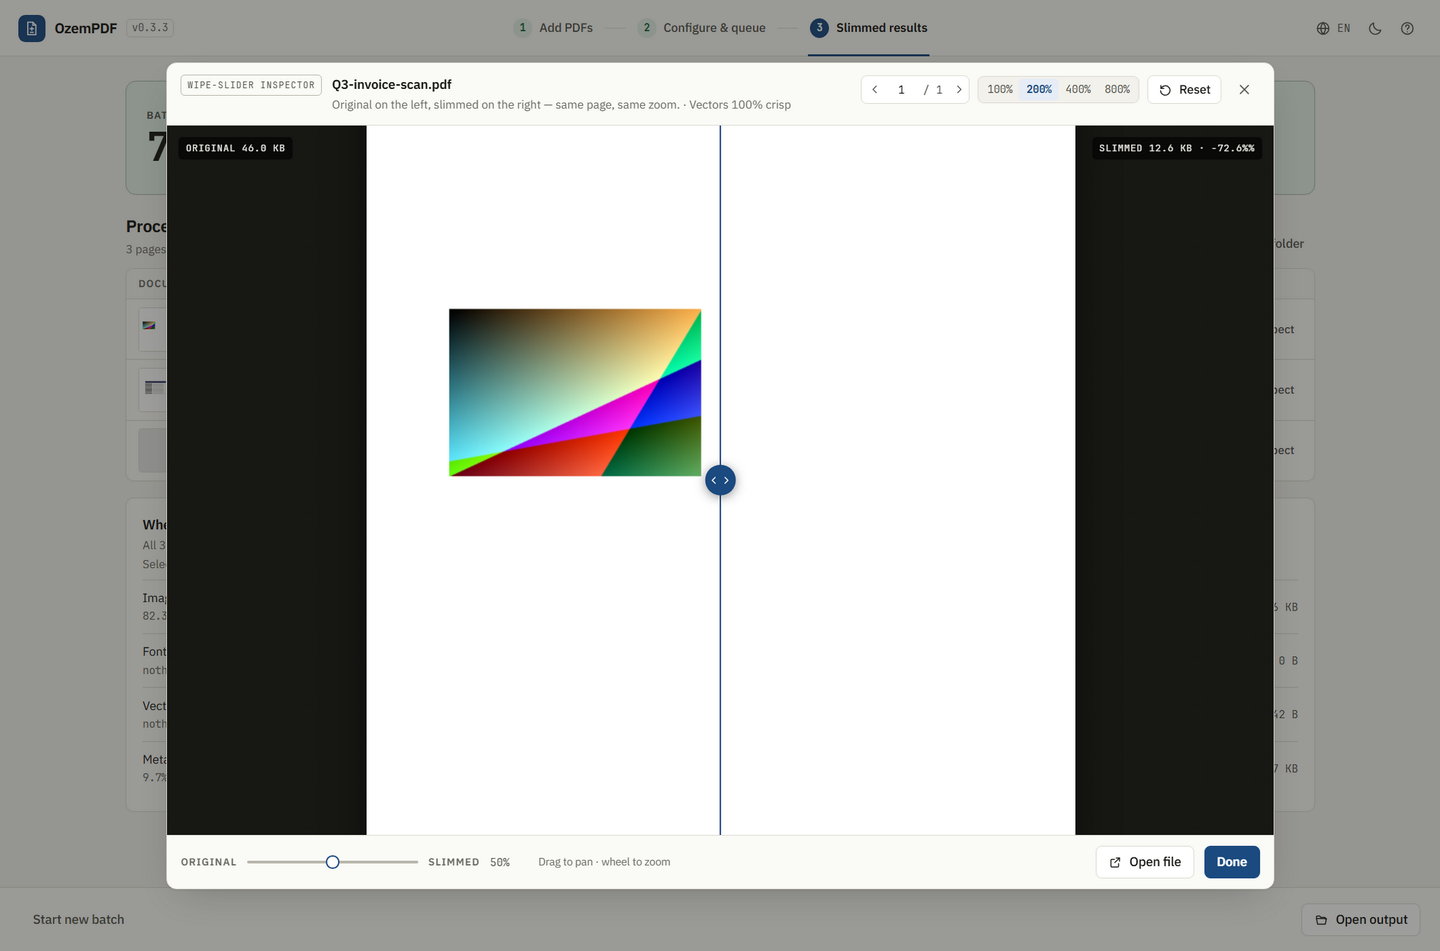
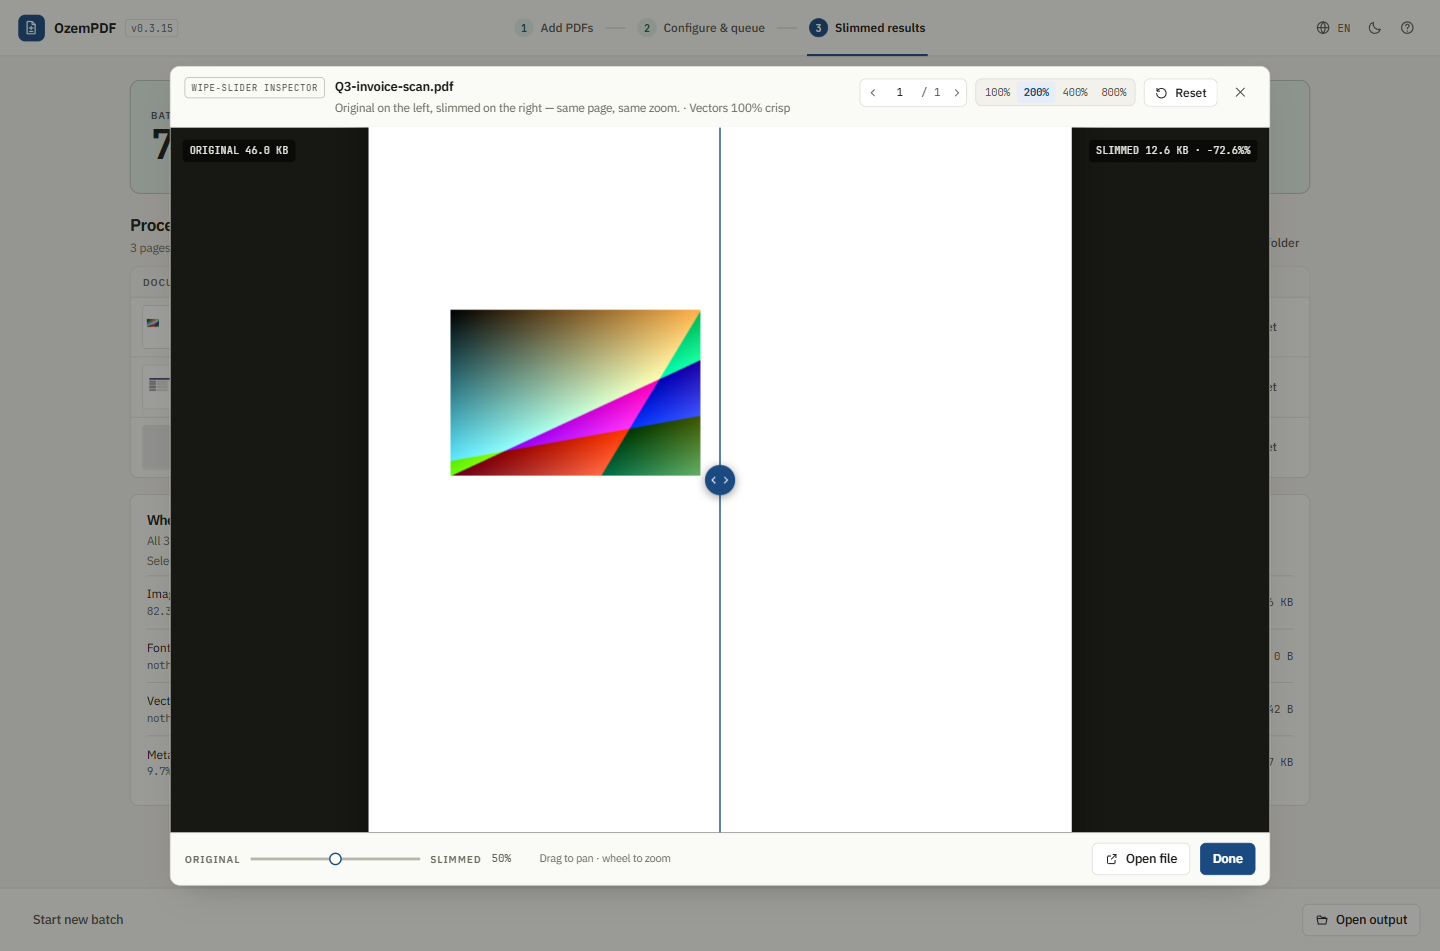
docs: refresh the specification and README screenshots for 0.3.15
- name 0.3.15 as the described version with 0.3.3 as the descriptive baseline; update the CLI, ZIP and bootstrap examples

- refresh Appendix A/C line and string counts and the 12.3 test inventory (92 tests) and correct the pipeline docstring to seven stages

- regenerate the four README screenshots from the shipped 0.3.15 UI with the original fixtures, so the version chip and all figures match the app

diff --git a/python/src/ozempdf/engine/pipeline.py b/python/src/ozempdf/engine/pipeline.py
@@ -1,4 +1,4 @@
-"""Six-stage compression orchestration for a single PDF.
+"""Seven-stage compression orchestration for a single PDF.
 
 The pipeline is the only place that writes output files. Every stage mutates an
 open document in place; the save is atomic (temp file in the destination

diff --git a/docs/TECHNICAL_SPECIFICATION.md b/docs/TECHNICAL_SPECIFICATION.md
@@ -5,9 +5,9 @@
 | Document ID | OZEM-TS-001 |
 | Product | OzemPDF |
 | Specification version | 2.0 |
-| Application version described | **0.3.3** (`python/src/ozempdf/_version.py`) |
+| Application version described | **0.3.15** (`python/src/ozempdf/_version.py`); the descriptive baseline is 0.3.3 and later changes are recorded in `CHANGELOG.md` |
 | Document status | Current-state specification (descriptive + normative for invariants) |
-| Last updated | 2026-11-24 |
+| Last updated | 2026-11-25 |
 | Audience | Maintainers, integrators, reviewers, AI coding agents |
 | Related documents | [`README.md`](../README.md), [`CHANGELOG.md`](CHANGELOG.md), [`DESIGN.md`](DESIGN.md), [`PRODUCT.md`](PRODUCT.md), [`DISCREPANCIES.md`](DISCREPANCIES.md), [`DEPENDENCIES.md`](DEPENDENCIES.md), [`pyproject.toml`](../pyproject.toml) |
 
@@ -18,7 +18,8 @@
 > chapters (§3–§6, §8–§11, §15.1–§15.2) keep their original intent with the behaviour updated to the
 > current tree.
 
-> **Authority.** This document describes the implementation as it exists in source at version 0.3.3.
+> **Authority.** This document describes the implementation as it exists in source at version 0.3.15;
+> the descriptive baseline is 0.3.3 and changes since are recorded in [`CHANGELOG.md`](CHANGELOG.md).
 > Where prose in the README or a locale catalog disagrees with observable behaviour, the behaviour of
 > `python/src/ozempdf/**` is authoritative and the disagreement is recorded in
 > [§16](#16-defect-ledger-and-known-limitations). Normative project rules live in
@@ -786,7 +787,7 @@ memory.
 | `--lang` | str | OS locale | sets the locale before parsing |
 | `--verbose` | flag | off | DEBUG logging with per-file timings |
 | `-h`, `--help` | flag | — | localized help |
-| `-v`, `--version` | flag | — | prints `OzemPDF v0.3.3` |
+| `-v`, `--version` | flag | — | prints `OzemPDF v0.3.15` |
 
 **FR-CLI-1** `--max-dpi` and `--jpeg-quality` MUST clear `strict_lossless` (they are meaningless in
 Strict Lossless).
@@ -822,7 +823,7 @@ An unlocked document adds a line naming the protection that was removed. Summary
 
 ```text
 ------------------------------------------------------------------------
-OzemPDF v0.3.3 Batch Summary
+OzemPDF v0.3.15 Batch Summary
 Processed 3/3 files in 12.34s | 40.00 MB -> 6.00 MB | Saved 34.00 MB (-85.0%)
 Savings Breakdown: Images -30.00 MB | Fonts -1.20 MB | Vectors/Streams -2.10 MB | Metadata/Bloat -0.70 MB
 ```
@@ -1168,7 +1169,7 @@ fallback rather than a demo.
 ### 8.1 Catalog format
 
 UTF-8 JSON, one file per locale: `python/src/ozempdf/locales/<code>.json`. 19 top-level groups, 282 leaf
-strings at 0.3.3 (Appendix C).
+strings at 0.3.15 (Appendix C).
 
 - Reserved `_meta` object: `code`, `name`, `native_name`.
 - Arbitrary nesting; lookups use dot paths (`step3.cat_images`).
@@ -1414,22 +1415,23 @@ pythonpath = ["src"]
 addopts = "-ra"
 ```
 
-Run `python -m pytest -q` (~10 s, 76 tests) and `ruff check python/src python/tests`. Interface tests drive the real
+Run `python -m pytest -q` (~20 s, 92 tests) and `ruff check python/src python/tests`. Interface tests drive the real
 server through `http.client`; no browser is required, and no Qt platform plugin is involved.
 
 ### 12.3 Inventory
 
 | Module | Tests | Verifies |
 | --- | --- | --- |
-| `python/tests/test_lossless.py` | 9 | Bit-identical pixels *and* identical decoded content bytes in Strict Lossless; guardrail keeps a tiny file (`kept_original_guardrail`, `already_optimal`); duplicate images, opaque `/SMask`, `/PieceInfo` and `/Thumb` removed; Max Slim strips metadata but Lossless keeps it; an image stream is only replaced when strictly smaller; vector-only documents are not rasterised; every preset still renders a page |
-| `python/tests/test_visually_lossless.py` | 12 | 600 effective DPI derived from the CTM; Balanced downsamples it and Max Slim is not larger; a screenshot becomes `/Indexed` rather than JPEG; a low-DPI image is left alone; a 1-bit mask keeps every decoded pixel; a `/Decode`-inverted mask is not re-encoded; the Word text-as-mask construct still renders; Predictor-15 round-trips all five filters for bpp 1 and 3; Paeth matches reference values |
-| `python/tests/test_security_and_fonts.py` | 15 | Owner-encrypted signed document is decrypted and flattened; permission restrictions removed without a password; a supplied password does not break permission-only files; a mixed batch shares one password; an open password without a credential is reported, not guessed; `"1234"` fails; inputs open read-only; a permission error is actionable; protection is classified; unsupported encryption is reported; flatten-disabled keeps the signature; a subset font is still a valid sfnt; re-signing produces a real `/ByteRange` signature; a wrong certificate password fails cleanly and leaves no output |
-| `python/tests/test_batch.py` | 15 | Sorted recursive discovery and previous-output exclusion; the three output modes; collision suffixing; empty suffix fallback; parallel ordering and progress; cancel stops dispatch but keeps finished work; thumbnails and page renders; a failed file leaves no temp and keeps the original; CLI single file with a JSON report; pure-JSON stdout; exit codes 1 and 2; localized help; flag mapping |
+| `python/tests/test_lossless.py` | 7 | Bit-identical pixels *and* identical decoded content bytes in Strict Lossless; guardrail keeps a tiny file (`kept_original_guardrail`, `already_optimal`); duplicate images, opaque `/SMask`, `/PieceInfo` and `/Thumb` removed; Max Slim strips metadata but Lossless keeps it; an image stream is only replaced when strictly smaller; vector-only documents are not rasterised; every preset still renders a page |
+| `python/tests/test_visually_lossless.py` | 11 | 600 effective DPI derived from the CTM; Balanced downsamples it and Max Slim is not larger; a screenshot becomes `/Indexed` rather than JPEG; a low-DPI image is left alone; a 1-bit mask keeps every decoded pixel; a `/Decode`-inverted mask is not re-encoded; the Word text-as-mask construct still renders; Predictor-15 round-trips all five filters for bpp 1 and 3; Paeth matches reference values |
+| `python/tests/test_security_and_fonts.py` | 17 | Owner-encrypted signed document is decrypted and flattened; permission restrictions removed without a password; a supplied password does not break permission-only files; a mixed batch shares one password; an open password without a credential is reported, not guessed; `"1234"` fails; inputs open read-only; a permission error is actionable; protection is classified; unsupported encryption is reported; flatten-disabled keeps the signature; a subset font is still a valid sfnt; re-signing produces a real `/ByteRange` signature; a wrong certificate password fails cleanly and leaves no output |
+| `python/tests/test_batch.py` | 20 | Sorted recursive discovery and previous-output exclusion; the three output modes; collision suffixing; empty suffix fallback; parallel ordering and progress; cancel stops dispatch but keeps finished work; thumbnails and page renders; a failed file leaves no temp and keeps the original; CLI single file with a JSON report; pure-JSON stdout; exit codes 1 and 2; localized help; flag mapping |
 | `python/tests/test_settings.py` | 6 | Whitelist-only persistence and secrets never persisted; portable data-dir override; corrupt and unwritable settings fall back silently; language round-trips through `AppState`; `from_preset` accepts an enum member |
 | `python/tests/test_i18n.py` | 7 | Translation and fallback; formatting errors return the template; unknown language keeps the current one; discovery and listeners; every static key exists; zero orphan keys; no empty values |
-| `python/tests/test_web.py` | 15 | Index serves the UI and sets the session cookie; the version chip matches `_version.py`; the API refuses a token-less request; static traversal is blocked; add → run → images; `fs/list` filters and hides; certificate picker; upload staging; a preset change keeps the destination; opening a missing output is reported, not raised; incremental queue after a run; row removal; preload paths queue on first load; protection kind is reported; language switch |
+| `python/tests/test_packaging.py` | 2 | `freeze_support()` precedes `run_cli()` in the frozen entry point |
+| `python/tests/test_web.py` | 19 | Index serves the UI and sets the session cookie; the version chip matches `_version.py`; the API refuses a token-less request; static traversal is blocked; add → run → images; `fs/list` filters and hides; certificate picker; upload staging; a preset change keeps the destination; opening a missing output is reported, not raised; incremental queue after a run; row removal; preload paths queue on first load; protection kind is reported; language switch |
 
-Fixtures live in `python/tests/pdf_fixtures.py` (418 lines): flat and gradient rasters, an opaque `/SMask`,
+Fixtures live in `python/tests/pdf_fixtures.py` (435 lines): flat and gradient rasters, an opaque `/SMask`,
 duplicate images, `/PieceInfo`/`/Thumb`/XMP bloat, a synthetic TrueType font built with
 `FontBuilder`, an owner-encrypted PDF with a visible signature widget, an open-password PDF, an
 unsupported-encryption PDF, and a nested folder tree.
@@ -1491,7 +1493,7 @@ Two artefacts, in order:
    create temporary directory" on locked-down hosts, and a one-dir build also starts faster.
 2. **Desktop app** — `cd electron && npm run dist` runs `electron-builder` with the `zip` target only,
    copying `artifacts/dist/engine` as `resources/engine` plus the two launchers and the icon. Output:
-   `release/OzemPDF-0.3.3-win.zip` (~172 MB).
+   `release/OzemPDF-0.3.15-win.zip` (~172 MB).
 
 `electron-builder` is configured for `win`, `mac` and `linux` zip targets. NSIS and the
 self-extracting portable exe were **removed**: the installer executes the generated installer to
@@ -1787,24 +1789,24 @@ Line counts are indicative (§1.3). `web/fonts/` holds the OFL texts alongside t
 
 | Path | Lines | Responsibility |
 | --- | --- | --- |
-| `docs/TECHNICAL_SPECIFICATION.md` | 1982 | this specification |
+| `docs/TECHNICAL_SPECIFICATION.md` | 2017 | this specification |
 | `docs/USER_STORIES.md` | 957 | personas, epics, stories, traceability |
-| `docs/DISCREPANCIES.md` | 101 | the D-01…D-21 resolution ledger with evidence |
+| `docs/DISCREPANCIES.md` | 119 | the D-01…D-21 resolution ledger with evidence |
 | `docs/screenshots/step1.png` … `step3.png`, `inspector.png` | — | README figures, captured from the shipped UI |
-| `python/src/ozempdf/_version.py` | 3 | version source of truth (`0.3.3`) |
-| `python/src/ozempdf/__init__.py` | 3 | package facade |
-| `python/src/ozempdf/__main__.py` | 11 | entry point, `freeze_support` |
+| `python/src/ozempdf/_version.py` | 4 | version source of truth (`0.3.15`) |
+| `python/src/ozempdf/__init__.py` | 5 | package facade |
+| `python/src/ozempdf/__main__.py` | 18 | entry point, `freeze_support` |
 | `python/src/ozempdf/config.py` | 203 | enums, `CompressionConfig`, presets, clamping |
 | `python/src/ozempdf/i18n.py` | 195 | JSON catalog manager, `t()` |
 | `python/src/ozempdf/cli.py` | 259 | argparse, config mapping, run loop, JSON report, exit codes |
 | `python/src/ozempdf/gui.py` | 20 | `launch_gui`: start the local server and open the browser |
-| `python/src/ozempdf/server.py` | 933 | loopback HTTP API, static files, `AppState`, run thread, thumbnail pool |
+| `python/src/ozempdf/server.py` | 972 | loopback HTTP API, static files, `AppState`, run thread, thumbnail pool |
 | `python/src/ozempdf/settings.py` | 127 | portable/system data locations, whitelisted persistence |
 | `python/src/ozempdf/logging_setup.py` | 35 | `--verbose` / `OZEMPDF_LOG` |
 | `python/src/ozempdf/formatting.py` | 27 | byte and percent formatting |
 | `python/src/ozempdf/resources.py` | 20 | `resource_path` honouring `sys._MEIPASS` |
 | `python/src/ozempdf/engine/__init__.py` | 77 | engine facade |
-| `python/src/ozempdf/engine/pipeline.py` | 306 | 7-stage orchestration, save, guardrail, promote |
+| `python/src/ozempdf/engine/pipeline.py` | 350 | 7-stage orchestration, save, guardrail, promote |
 | `python/src/ozempdf/engine/unlock.py` | 545 | read-only open, protection classification, signature flattening |
 | `python/src/ozempdf/engine/analyzer.py` | 685 | byte audit, CTM/DPI analysis |
 | `python/src/ozempdf/engine/deduplicator.py` | 637 | SHA-256 resource dedup, opaque `/SMask` removal |
@@ -1812,31 +1814,31 @@ Line counts are indicative (§1.3). `web/fonts/` holds the OFL texts alongside t
 | `python/src/ozempdf/engine/font_optimizer.py` | 628 | font subsetting, CMap recompression |
 | `python/src/ozempdf/engine/stream_optimizer.py` | 240 | bloat stripping, Zopfli streams |
 | `python/src/ozempdf/engine/signing.py` | 92 | PKCS#12 re-signing, timestamps |
-| `python/src/ozempdf/engine/batch.py` | 396 | discovery, mapping, collision indexing, rendering, pool |
-| `python/src/ozempdf/web/index.html` | 477 | interface markup, inline SVG sprite, dialogs |
-| `python/src/ozempdf/web/styles.css` | 2582 | tokens, layout, components, responsive rules, reduced motion |
-| `python/src/ozempdf/web/app.js` | 1892 | state, rendering, API calls, inspector, shortcuts |
+| `python/src/ozempdf/engine/batch.py` | 482 | discovery, mapping, collision indexing, rendering, pool |
+| `python/src/ozempdf/web/index.html` | 483 | interface markup, inline SVG sprite, dialogs |
+| `python/src/ozempdf/web/styles.css` | 2664 | tokens, layout, components, responsive rules, reduced motion |
+| `python/src/ozempdf/web/app.js` | 2105 | state, rendering, API calls, inspector, shortcuts |
 | `python/src/ozempdf/web/fonts/` | — | IBM Plex Sans (latin, latin-ext) and JetBrains Mono `woff2` + OFL texts |
-| `python/src/ozempdf/locales/en.json` | 322 | English catalog: 19 groups, 282 strings |
+| `python/src/ozempdf/locales/en.json` | 333 | English catalog: 18 groups, 290 strings |
 | `electron/main.js` | 368 | Electron main: engine spawn, ready handshake, native pickers, close guard, portable data |
 | `electron/preload.js` | 23 | the four bridged capabilities, `contextIsolation` |
-| `electron/package.json` | 74 | Electron 38 dependency, `electron-builder` zip configuration |
+| `electron/package.json` | 85 | Electron 38 dependency, `electron-builder` zip configuration |
 | `electron/launchers/Start OzemPDF (compatibility).cmd` | 6 | `--no-sandbox` host workaround |
 | `electron/launchers/Start OzemPDF in browser.cmd` | 12 | browser-only launcher |
 | `electron/assets/icon.ico`, `icon.png` | — | generated by `python/scripts/make_icon.py` |
-| `python/scripts/engine_entry.py` | 4 | frozen engine entry point |
-| `python/scripts/make_icon.py` | 66 | icon generator (accent tile + document mark) |
+| `python/scripts/engine_entry.py` | 16 | frozen engine entry point |
+| `python/scripts/make_icon.py` | 79 | icon generator (accent tile + document mark) |
 | `python/scripts/build_cross_platform.py` | 135 | PyInstaller driver (one-dir engine) |
-| `python/tests/conftest.py` | 111 | fixtures and pixel helpers |
-| `python/tests/pdf_fixtures.py` | 418 | synthetic PDF builders |
+| `python/tests/conftest.py` | 117 | fixtures and pixel helpers |
+| `python/tests/pdf_fixtures.py` | 435 | synthetic PDF builders |
 | `python/tests/test_lossless.py` | 110 | Mode A and guardrail |
 | `python/tests/test_visually_lossless.py` | 209 | DPI, Mode B, 1-bit masks, predictor |
-| `python/tests/test_security_and_fonts.py` | 288 | protection, signatures, fonts |
-| `python/tests/test_batch.py` | 228 | discovery, mapping, pool, CLI |
+| `python/tests/test_security_and_fonts.py` | 344 | protection, signatures, fonts |
+| `python/tests/test_batch.py` | 335 | discovery, mapping, pool, CLI |
 | `python/tests/test_settings.py` | 113 | persistence, data dir, presets |
 | `python/tests/test_i18n.py` | 97 | catalogs and key coverage |
-| `python/tests/test_web.py` | 336 | HTTP API and interface contract |
-| `pyproject.toml` | 56 | packaging, pytest, ruff |
+| `python/tests/test_web.py` | 445 | HTTP API and interface contract |
+| `pyproject.toml` | 83 | packaging, pytest, ruff |
 | `README.md` / `docs/CHANGELOG.md` | 265 / 178 | product docs, history |
 | `docs/DESIGN.md` / `docs/PRODUCT.md` | 98 / 55 | design contract, product definition |
 | `docs/DEPENDENCIES.md` | 58 | third-party inventory (package manifests are authoritative) |
@@ -1949,7 +1951,7 @@ ignore keys they do not know.
 
 ```json
 {
-  "version": "0.3.3",
+  "version": "0.3.15",
   "language": "en",
   "languages": [ { "code": "en", "name": "English", "native_name": "English" } ],
   "presets": [ { "id": "lossless", "name": "Strict Lossless", "description": "…" } ],

diff --git a/docs/CHANGELOG.md b/docs/CHANGELOG.md
@@ -14,6 +14,11 @@ All notable changes to OzemPDF are documented here. The format follows
 - **The ledger states its own status.** A banner and an at-a-glance table say that all 36 defects
   are closed and that only the Deferred section is open, so the page reads as history rather than a
   backlog.
+- **Documentation and screenshots match 0.3.15.** The specification now names 0.3.15 as the described
+  version (0.3.3 remains the descriptive baseline), its CLI, ZIP and bootstrap examples show the
+  current version, Appendix A/C line and string counts and the test inventory were refreshed, and the
+  pipeline docstring says seven stages. The four README screenshots were regenerated from the shipped
+  0.3.15 UI with the same fixtures and numbers.
 
 ### Fixed
 

diff --git a/README.md b/README.md
@@ -269,8 +269,8 @@ source of truth; [`docs/DEPENDENCIES.md`](docs/DEPENDENCIES.md) is the human-rea
 
 The documentation lives in [`docs/`](docs/):
 
-- [`TECHNICAL_SPECIFICATION.md`](docs/TECHNICAL_SPECIFICATION.md) — the current-state specification of
-  the engine, CLI, API and interface
+- [`TECHNICAL_SPECIFICATION.md`](docs/TECHNICAL_SPECIFICATION.md) — the engine, CLI, API and interface
+  specification (descriptive baseline 0.3.3; later changes are in the changelog)
 - [`USER_STORIES.md`](docs/USER_STORIES.md) — personas, epics, acceptance criteria and traceability
 - [`DISCREPANCIES.md`](docs/DISCREPANCIES.md) — every defect from the previous PySide6 architecture,
   how it was resolved, and what the rebuild introduced
